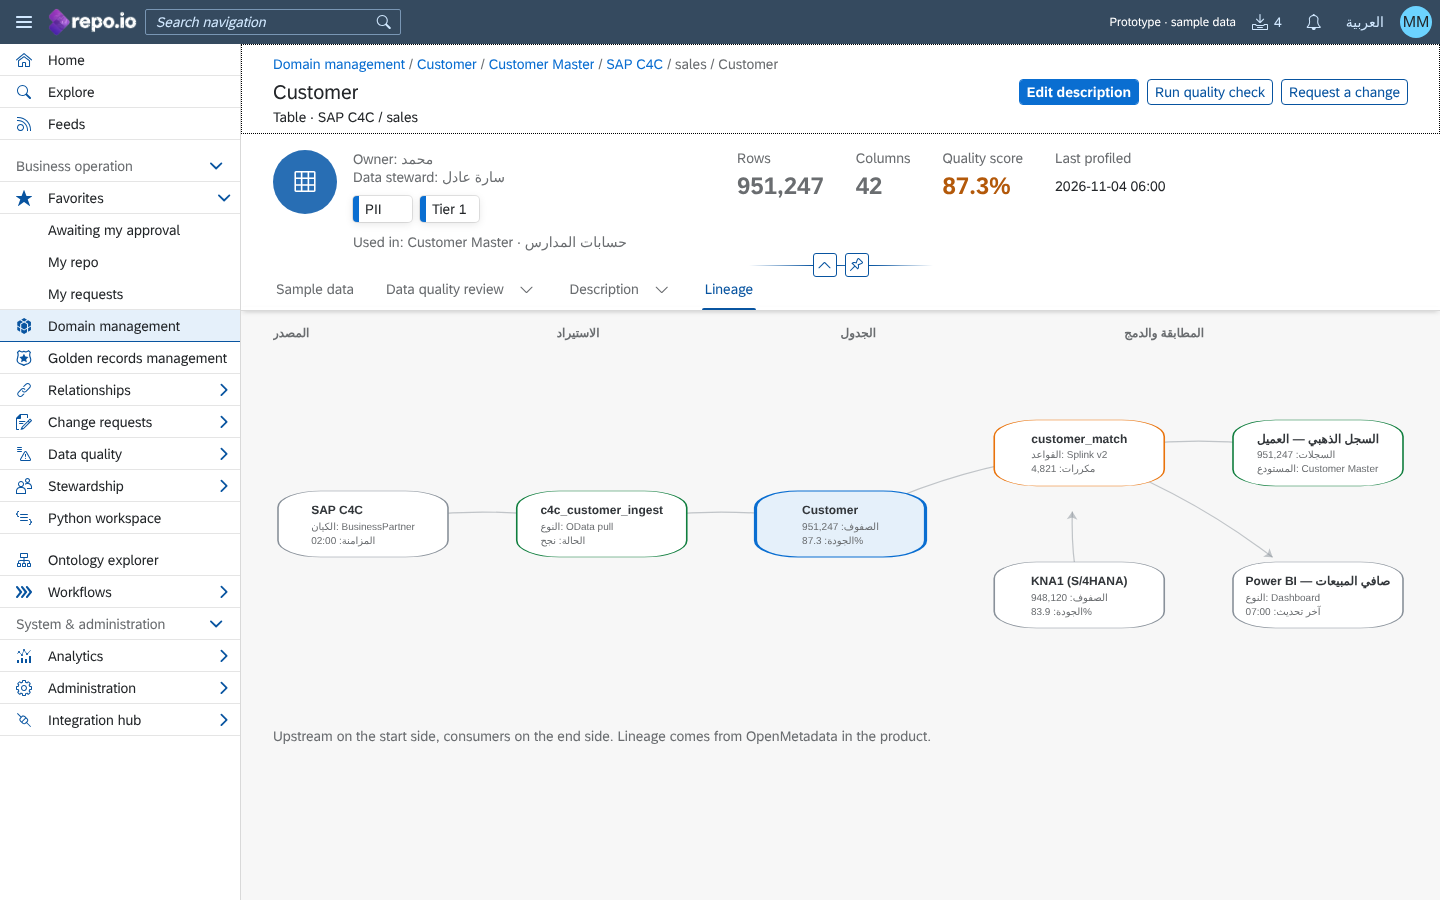
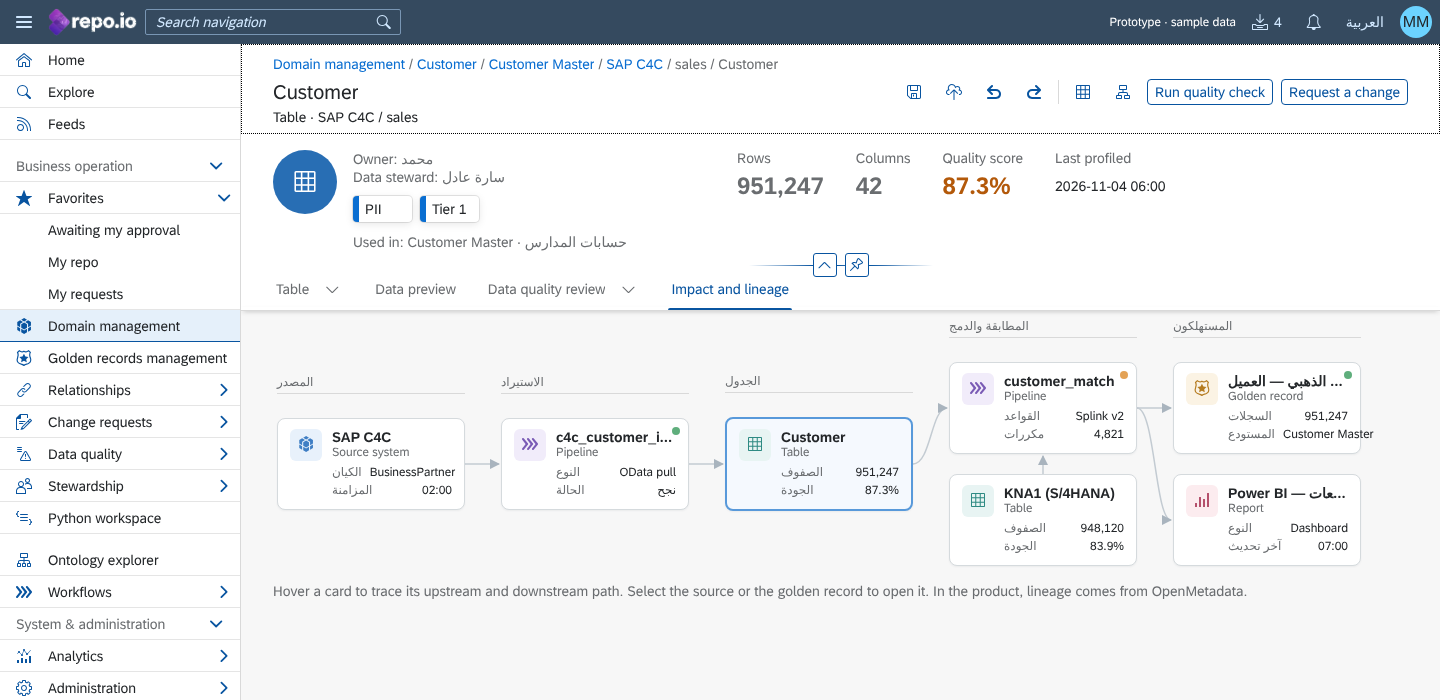
feat(repoio-ui): soften prototype colors and redraw lineage as connected cards
- Charts now use the softer SAP chart palette.
- Progress bars use light semantic fills.
- Icons use semantic icon colors.
- The sample-data badges are gone from the page titles.

Lineage is now a LineageGraph control instead of an ECharts graph:
- one card per object, with its type, key facts and a status dot
- curved connectors that follow RTL and LTR
- hovering or focusing a card traces its upstream and downstream path
- the source and golden-record cards open their pages

Claude-Session: https://claude.ai/code/session_014MwTwj4qVcnTAy3XtzTwBt

diff --git a/repoio-ui/design-reference/openui5-prototype/webapp/control/LineageGraph.js b/repoio-ui/design-reference/openui5-prototype/webapp/control/LineageGraph.js
@@ -1,0 +1,135 @@
+/*
+ * LineageGraph — impact and lineage view in the style of SAP Datasphere:
+ * columns of object cards (source → ingestion → table → matching → consumers)
+ * joined by soft curved connectors. Pure HTML + inline SVG, follows RTL/LTR from
+ * the page direction. Hovering a card highlights its upstream and downstream path.
+ */
+sap.ui.define([
+	"sap/ui/core/Control",
+	"sap/ui/core/ResizeHandler",
+	"sap/ui/core/IconPool"
+], function (Control, ResizeHandler, IconPool) {
+	"use strict";
+
+	var ICONS = { db: "database", pipe: "process", table: "table-view", gold: "badge", chart: "bar-chart" };
+	var esc = function (s) { return String(s).replace(/[&<>"]/g, function (c) { return { "&": "&amp;", "<": "&lt;", ">": "&gt;", "\"": "&quot;" }[c]; }); };
+
+	return Control.extend("repoio.proto.control.LineageGraph", {
+		metadata: {
+			properties: {
+				columns: { type: "object" },   // [{ h, nodes: [{ t, i, kv: [[k, v]], st, current }] }]
+				edges: { type: "object" },     // [[fromCol, fromNode, toCol, toNode]]
+				typeLabels: { type: "object" } // { db: "Source", ... }
+			},
+			events: { nodeSelect: { parameters: { column: { type: "int" }, node: { type: "int" } } } }
+		},
+
+		renderer: {
+			apiVersion: 2,
+			render: function (oRm, oControl) {
+				var cols = oControl.getColumns() || [], types = oControl.getTypeLabels() || {};
+				oRm.openStart("div", oControl).class("rlg").attr("role", "group").openEnd();
+				oRm.openStart("div").class("rlgCols").openEnd();
+				oRm.openStart("svg").class("rlgSvg").attr("aria-hidden", "true").openEnd().close("svg");
+				cols.forEach(function (col, ci) {
+					oRm.openStart("div").class("rlgCol").openEnd();
+					oRm.openStart("div").class("rlgHead").openEnd().text(col.h).close("div");
+					col.nodes.forEach(function (n, ni) {
+						var icon = IconPool.getIconInfo(ICONS[n.i] || "document") || {};
+						oRm.openStart("div").class("rlgNode").class(n.current ? "rlgCurrent" : "")
+							.attr("data-node", ci + "-" + ni).attr("tabindex", "0").attr("role", "button")
+							.attr("aria-label", col.h + ": " + n.t).openEnd();
+						oRm.openStart("span").class("rlgIcon").class("rlgIcon-" + n.i).style("font-family", icon.fontFamily ? "'" + icon.fontFamily + "'" : "SAP-icons").openEnd()
+							.text(icon.content || "").close("span");
+						oRm.openStart("div").class("rlgBody").openEnd();
+						oRm.openStart("div").class("rlgTitle").attr("title", n.t).openEnd().text(n.t).close("div");
+						oRm.openStart("div").class("rlgType").openEnd().text(types[n.i] || "").close("div");
+						(n.kv || []).forEach(function (kv) {
+							oRm.openStart("div").class("rlgKv").openEnd();
+							oRm.openStart("span").class("rlgK").openEnd().text(kv[0]).close("span");
+							oRm.openStart("span").class("rlgV").openEnd().text(kv[1]).close("span");
+							oRm.close("div");
+						});
+						oRm.close("div");
+						if (n.st) { oRm.openStart("span").class("rlgDot").class("rlgDot-" + n.st).openEnd().close("span"); }
+						oRm.close("div");
+					});
+					oRm.close("div");
+				});
+				oRm.close("div");
+				oRm.close("div");
+			}
+		},
+
+		onAfterRendering: function () {
+			var oDom = this.getDomRef();
+			if (!oDom) { return; }
+			this._draw();
+			oDom.querySelectorAll(".rlgNode").forEach(function (el) {
+				el.addEventListener("mouseenter", this._highlight.bind(this, el.getAttribute("data-node")));
+				el.addEventListener("focus", this._highlight.bind(this, el.getAttribute("data-node")));
+				el.addEventListener("mouseleave", this._highlight.bind(this, null));
+				el.addEventListener("blur", this._highlight.bind(this, null));
+				el.addEventListener("click", function () {
+					var p = el.getAttribute("data-node").split("-");
+					this.fireNodeSelect({ column: +p[0], node: +p[1] });
+				}.bind(this));
+			}, this);
+			if (!this._resizeId) { this._resizeId = ResizeHandler.register(this, this._draw.bind(this)); }
+		},
+
+		_draw: function () {
+			var oDom = this.getDomRef(); if (!oDom) { return; }
+			var cols = oDom.querySelector(".rlgCols"), svg = oDom.querySelector(".rlgSvg"), box = cols.getBoundingClientRect(),
+				rtl = getComputedStyle(oDom).direction === "rtl", parts = [];
+			svg.setAttribute("width", box.width); svg.setAttribute("height", box.height);
+			var pos = function (id) {
+				var el = oDom.querySelector("[data-node='" + id + "']"); if (!el) { return null; }
+				var r = el.getBoundingClientRect();
+				return { l: r.left - box.left, r: r.right - box.left, cx: r.left - box.left + r.width / 2, t: r.top - box.top, b: r.bottom - box.top, y: r.top - box.top + r.height / 2 };
+			};
+			parts.push("<defs><marker id='rlgArrow' viewBox='0 0 10 10' refX='9' refY='5' markerWidth='7' markerHeight='7' orient='auto-start-reverse'><path d='M0,0 L10,5 L0,10 z' fill='#a9b4be'/></marker>" +
+				"<marker id='rlgArrowOn' viewBox='0 0 10 10' refX='9' refY='5' markerWidth='7' markerHeight='7' orient='auto-start-reverse'><path d='M0,0 L10,5 L0,10 z' fill='#0a6ed1'/></marker></defs>");
+			(this.getEdges() || []).forEach(function (e) {
+				var a = pos(e[0] + "-" + e[1]), b = pos(e[2] + "-" + e[3]); if (!a || !b) { return; }
+				var d;
+				if (e[0] === e[2]) { // same column: short vertical connector between the two cards
+					var up = b.b < a.t, y1 = up ? a.t : a.b, y2 = up ? b.b + 2 : b.t - 2;
+					d = "M" + a.cx + "," + y1 + " L" + b.cx + "," + y2;
+				} else {
+					var x1 = rtl ? a.l : a.r, x2 = rtl ? b.r : b.l, dx = (x2 - x1) * 0.5;
+					d = "M" + x1 + "," + a.y + " C" + (x1 + dx) + "," + a.y + " " + (x2 - dx) + "," + b.y + " " + (x2 - (rtl ? -2 : 2)) + "," + b.y;
+				}
+				parts.push("<path class='rlgEdge' data-from='" + e[0] + "-" + e[1] + "' data-to='" + e[2] + "-" + e[3] + "' d='" + d + "' marker-end='url(#rlgArrow)'/>");
+			});
+			svg.innerHTML = parts.join("");
+		},
+
+		/* Highlight every node and edge connected (up- and downstream) to the hovered node. */
+		_highlight: function (id) {
+			var oDom = this.getDomRef(); if (!oDom) { return; }
+			oDom.classList.toggle("rlgFocus", !!id);
+			oDom.querySelectorAll(".rlgOn").forEach(function (x) { x.classList.remove("rlgOn"); });
+			if (!id) { return; }
+			var edges = this.getEdges() || [], seen = {}, walk = function (nid, dir) {
+				edges.forEach(function (e) {
+					var f = e[0] + "-" + e[1], t = e[2] + "-" + e[3], next = dir > 0 ? (f === nid ? t : null) : (t === nid ? f : null);
+					if (next) {
+						var p = oDom.querySelector(".rlgEdge[data-from='" + f + "'][data-to='" + t + "']");
+						if (p) { p.classList.add("rlgOn"); p.setAttribute("marker-end", "url(#rlgArrowOn)"); }
+						if (!seen[next + dir]) { seen[next + dir] = true; walk(next, dir); }
+					}
+				});
+			};
+			walk(id, 1); walk(id, -1);
+			oDom.querySelectorAll(".rlgEdge").forEach(function (p) { if (!p.classList.contains("rlgOn")) { p.setAttribute("marker-end", "url(#rlgArrow)"); } });
+			var on = {}; on[id] = true;
+			oDom.querySelectorAll(".rlgEdge.rlgOn").forEach(function (p) { on[p.getAttribute("data-from")] = on[p.getAttribute("data-to")] = true; });
+			Object.keys(on).forEach(function (k) { var el = oDom.querySelector("[data-node='" + k + "']"); if (el) { el.classList.add("rlgOn"); } });
+		},
+
+		exit: function () {
+			if (this._resizeId) { ResizeHandler.deregister(this._resizeId); this._resizeId = null; }
+		}
+	});
+});

diff --git a/repoio-ui/design-reference/openui5-prototype/webapp/css/style.css b/repoio-ui/design-reference/openui5-prototype/webapp/css/style.css
@@ -30,3 +30,45 @@
 .repoioNewTile .sapMBtnContent { margin: 0 !important; color: var(--sapTile_TitleTextColor); font-weight: normal; line-height: 1.25rem; white-space: normal; text-align: start; }
 .repoioNewTile .sapMBtnIcon { float: none !important; align-self: flex-start; order: -1; }
 .repoioWelcome { padding-block: 0.25rem; }
+
+/* Softer status colors: SAP semantic chart palette, light variants (no saturated bars). */
+.sapUiBody .sapMPI { border-color: transparent; background: #f2f3f4; border-radius: 0.25rem; }
+.sapUiBody .sapMPI .sapMPIBar { border-radius: 0.25rem; }
+.sapUiBody .sapMPI .sapMPIBarPositive { background-color: #9fd0b0; }
+.sapUiBody .sapMPI .sapMPIBarCritical { background-color: #f1c48f; }
+.sapUiBody .sapMPI .sapMPIBarNegative { background-color: #eda3a3; }
+.sapUiBody .sapMPI .sapMPIBarInformation { background-color: #a9c8ec; }
+.sapUiBody .sapMPI .sapMPIBarNeutral { background-color: #c8ced3; }
+.sapUiBody .sapMPI .sapMPIText { color: #32363a !important; font-weight: normal; }
+.sapUiBody .sapMPI .sapMPIBarRemaining { background: transparent; }
+
+/* Lineage (LineageGraph control) — Datasphere "Impact and Lineage" style */
+.rlg { position: relative; overflow-x: auto; padding: 0.5rem 0 1rem; }
+.rlgSvg { position: absolute; inset: 0; pointer-events: none; overflow: visible; }
+.rlgCols { position: relative; display: flex; gap: 2.25rem; align-items: center; min-width: max-content; padding-inline: 0.25rem; }
+.rlgCol { position: relative; z-index: 1; display: flex; flex-direction: column; gap: 1.25rem; width: 11.75rem; }
+.rlgHead { font-size: 0.75rem; color: var(--sapContent_LabelColor); text-transform: none; letter-spacing: 0.02em; padding-bottom: 0.25rem; border-bottom: 1px solid var(--sapGroup_TitleBorderColor); margin-bottom: 0.25rem; }
+.rlgNode { position: relative; display: flex; gap: 0.625rem; align-items: flex-start; background: var(--sapTile_Background); border: 1px solid #d5dadd; border-radius: 0.5rem; padding: 0.625rem 0.75rem; box-shadow: 0 1px 2px rgba(34,54,73,.06); cursor: pointer; transition: border-color .15s, box-shadow .15s, opacity .15s; }
+.rlgNode:hover, .rlgNode:focus-visible { border-color: #89b4e3; box-shadow: 0 2px 8px rgba(34,54,73,.12); outline: none; }
+.rlgNode:focus-visible { outline: 2px solid var(--sapContent_FocusColor); outline-offset: 1px; }
+.rlgCurrent { border: 2px solid #5899da; background: #f5f9fe; }
+.rlgIcon { flex: none; width: 2rem; height: 2rem; border-radius: 0.375rem; display: grid; place-items: center; font-size: 1rem; background: #eef2f6; color: #5b738b; speak: none; }
+.rlgIcon-db { background: #e8f1fb; color: #3f7ec4; }
+.rlgIcon-pipe { background: #f1ecfa; color: #7a5bb5; }
+.rlgIcon-table { background: #e8f4f3; color: #2e8a83; }
+.rlgIcon-gold { background: #fbf3e4; color: #b57b1f; }
+.rlgIcon-chart { background: #fcecef; color: #b5506c; }
+.rlgBody { min-width: 0; flex: 1; }
+.rlgTitle { font-weight: bold; font-size: 0.875rem; color: var(--sapTextColor); white-space: nowrap; overflow: hidden; text-overflow: ellipsis; }
+.rlgType { font-size: 0.75rem; color: var(--sapContent_LabelColor); margin-bottom: 0.25rem; }
+.rlgKv { display: flex; justify-content: space-between; gap: 0.5rem; font-size: 0.75rem; line-height: 1.125rem; }
+.rlgK { color: var(--sapContent_LabelColor); }
+.rlgV { color: var(--sapTextColor); white-space: nowrap; font-variant-numeric: tabular-nums; }
+.rlgDot { position: absolute; top: 0.5rem; inset-inline-end: 0.5rem; width: 0.5rem; height: 0.5rem; border-radius: 50%; }
+.rlgDot-pos { background: #5fae7c; } .rlgDot-crit { background: #e3a256; } .rlgDot-neg { background: #df7a7a; }
+.rlgEdge { fill: none; stroke: #c3cbd2; stroke-width: 1.5; transition: stroke .15s, opacity .15s; }
+.rlgFocus .rlgEdge { opacity: .25; }
+.rlgFocus .rlgEdge.rlgOn { opacity: 1; stroke: #5899da; stroke-width: 2; }
+.rlgFocus .rlgNode { opacity: .45; }
+.rlgFocus .rlgNode.rlgOn { opacity: 1; }
+@media (prefers-reduced-motion: reduce) { .rlgNode, .rlgEdge { transition: none; } }

diff --git a/repoio-ui/design-reference/openui5-prototype/webapp/controller/Table.controller.js b/repoio-ui/design-reference/openui5-prototype/webapp/controller/Table.controller.js
@@ -40,6 +40,7 @@ sap.ui.define([
 				target: target, scoreState: this.fmt.qualityState(I.score),
 				deviation: (I.score - target).toFixed(1), delta: "+" + (I.score - trend[trend.length - 2].v).toFixed(1),
 				failed: aFailed.length,
+				lineageTypes: { db: this.text("lin.db"), pipe: this.text("lin.pipe"), table: this.text("lin.table"), gold: this.text("lin.gold"), chart: this.text("lin.chart") },
 				termsText: I.terms.join(" · "), tagsText: I.tags.join(" · "),
 				tests: I.tests.map(function (t) { return Object.assign({}, t, { failedPct: t.failed ? (t.failed / T.rows * 100).toFixed(1) + "%" : "—" }); }),
 				columns: I.columns.map(function (c) {
@@ -53,7 +54,6 @@ sap.ui.define([
 			}));
 			this.byId("page").setSelectedSection(this.byId("secDesc"));
 			this._drawTrend(trend, target);
-			this._drawLineage(I.lineage, I.edges);
 		},
 
 		columnFactory: function (sId, oContext) {
@@ -81,32 +81,9 @@ sap.ui.define([
 			});
 		},
 
-		_drawLineage: function (cols, edges) {
-			var c = this.colors, rtl = this.isRtl(), nodes = [], links = [], n = cols.length;
-			cols.forEach(function (col, i) {
-				var x = rtl ? n - 1 - i : i;
-				col.nodes.forEach(function (node, j) {
-					var y = (j - (col.nodes.length - 1) / 2) * 1.3;
-					var st = node.st === "pos" ? c.pos : node.st === "crit" ? c.crit : node.st === "neg" ? c.neg : "#89919a";
-					nodes.push({ name: i + "-" + j, value: [x, y],
-						label: { formatter: "{t|" + node.t + "}\n{k|" + node.kv.map(function (kv) { return kv[0] + ": " + kv[1]; }).join("\n") + "}",
-							rich: { t: { fontWeight: "bold", fontSize: 12, color: c.text, lineHeight: 18 }, k: { fontSize: 10, color: c.label, lineHeight: 14 } } },
-						itemStyle: { color: node.current ? "#e5f0fa" : "#ffffff", borderColor: node.current ? c.brand : st, borderWidth: node.current ? 2 : 1 },
-						tooltip: { formatter: col.h + ": " + node.t } });
-				});
-			});
-			edges.forEach(function (e) { links.push({ source: e[0] + "-" + e[1], target: e[2] + "-" + e[3] }); });
-			this.byId("lineageChart").setOption({
-				tooltip: {},
-				grid: { left: 90, right: 90, top: 60, bottom: 50 },
-				xAxis: { type: "value", min: 0, max: n - 1, show: false },
-				yAxis: { type: "value", min: -1.4, max: 1.4, show: false, inverse: true },
-				series: [{ type: "graph", coordinateSystem: "cartesian2d", symbol: "roundRect", symbolSize: [170, 66],
-					edgeSymbol: ["none", "arrow"], edgeSymbolSize: 8, lineStyle: { color: "#89919a", width: 1.2, curveness: 0.1 },
-					label: { show: true, position: "inside" }, data: nodes, links: links },
-					{ type: "scatter", symbolSize: 0, silent: true, data: cols.map(function (col, i) { return { value: [rtl ? n - 1 - i : i, -1.38], name: col.h }; }),
-						label: { show: true, position: "inside", formatter: "{b}", color: c.label, fontWeight: "bold", fontSize: 12 } }]
-			});
+		onLineageNode: function (e) {
+			var c = e.getParameter("column");
+			if (c === 0) { this.onToSource(); } else if (c === 4) { this.onToRepo(); }
 		},
 
 		onGoSection: function (e) { this.byId("page").setSelectedSection(this.byId(e.getSource().data("sec"))); },

diff --git a/repoio-ui/design-reference/openui5-prototype/webapp/controller/BaseController.js b/repoio-ui/design-reference/openui5-prototype/webapp/controller/BaseController.js
@@ -41,6 +41,6 @@ sap.ui.define([
 		},
 
 		/* Shared ECharts palette from Quartz Light semantic colors. */
-		colors: { brand: "#0a6ed1", pos: "#107e3e", crit: "#e9730c", neg: "#bb0000", info: "#0a6ed1", neutral: "#6a6d70", grid: "#e5e5e5", text: "#32363a", label: "#6a6d70" }
+		colors: { brand: "#5899da", pos: "#5fae7c", crit: "#e3a256", neg: "#df7a7a", info: "#89b4e3", neutral: "#b4bac0", grid: "#eeeeee", text: "#32363a", label: "#6a6d70" }
 	});
 });

diff --git a/repoio-ui/design-reference/openui5-prototype/README.md b/repoio-ui/design-reference/openui5-prototype/README.md
@@ -41,6 +41,7 @@ Datasphere.
 | `webapp/manifest.json` | Routes, models, i18n (`supportedLocales`: en, ar) |
 | `webapp/controller/App.controller.js` | Shell: navigation tree from `model/navigation.json`, header search filter, language switch |
 | `webapp/control/EChart.js` | Apache ECharts wrapper control (README §7.2) |
+| `webapp/control/LineageGraph.js` | Impact and lineage view: cards per object, curved connectors, hover traces the up- and downstream path (HTML + SVG, RTL aware) |
 | `publish/repoio-console.html` | Page used for the published artifact |
 
 ## Build
@@ -90,6 +91,12 @@ None. No hosts, ports or credentials.
 - `@ui5/cli` 4.0.33 (dev).
 - Apache ECharts 5.5.1, vendored in `webapp/thirdparty/` (Apache-2.0, licence
   file alongside).
+
+## Colors
+
+Charts use the SAP Quartz chart palette in its softer tints (`BaseController.colors`).
+Progress bars use light semantic fills (`css/style.css`), so status stays readable
+without saturated blocks of color.
 
 ## Findings for M4
 
